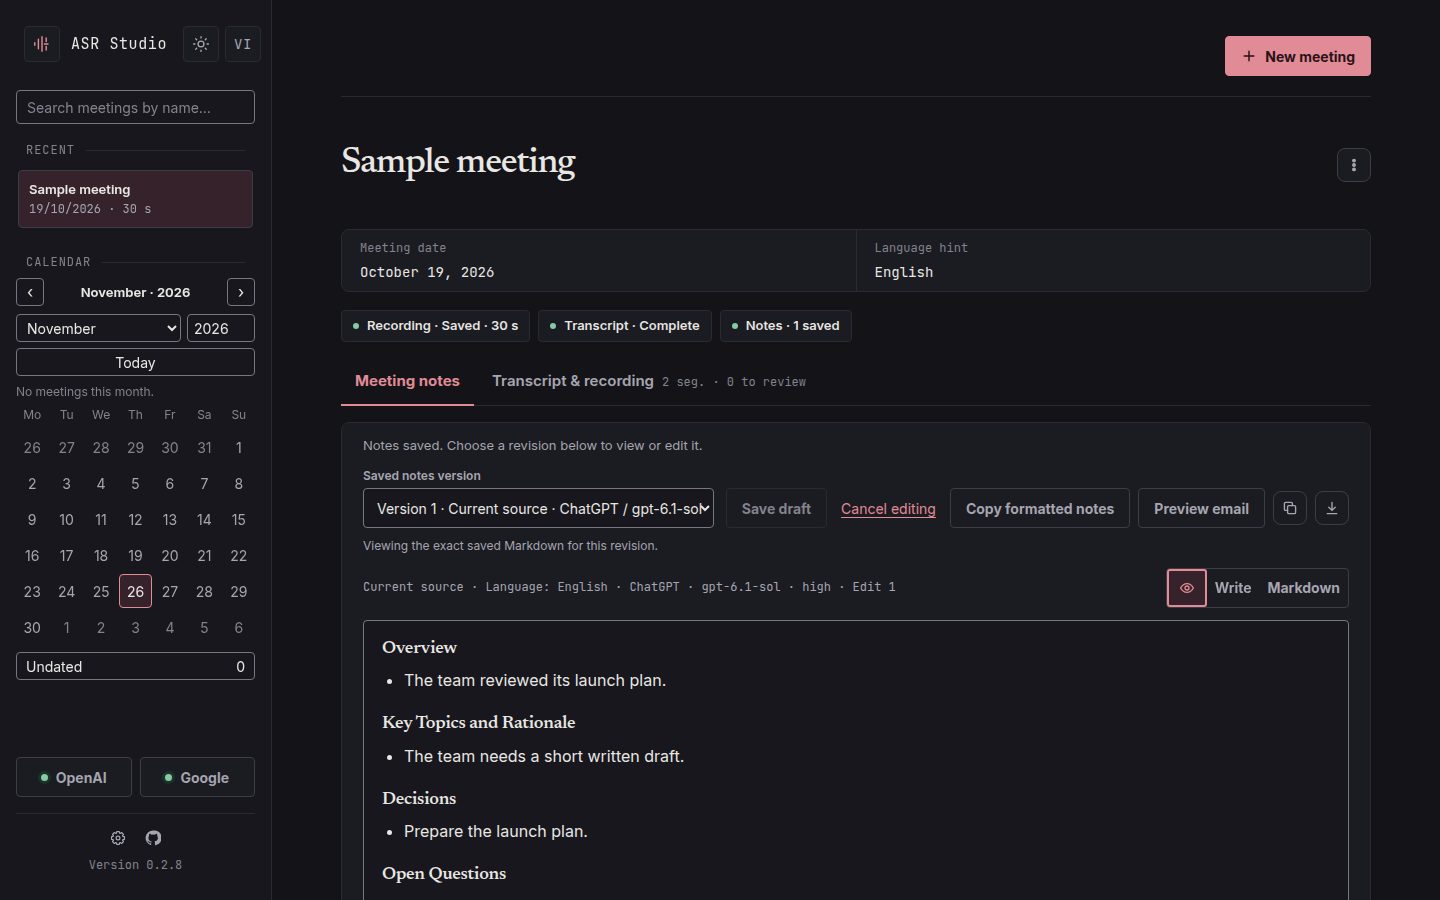
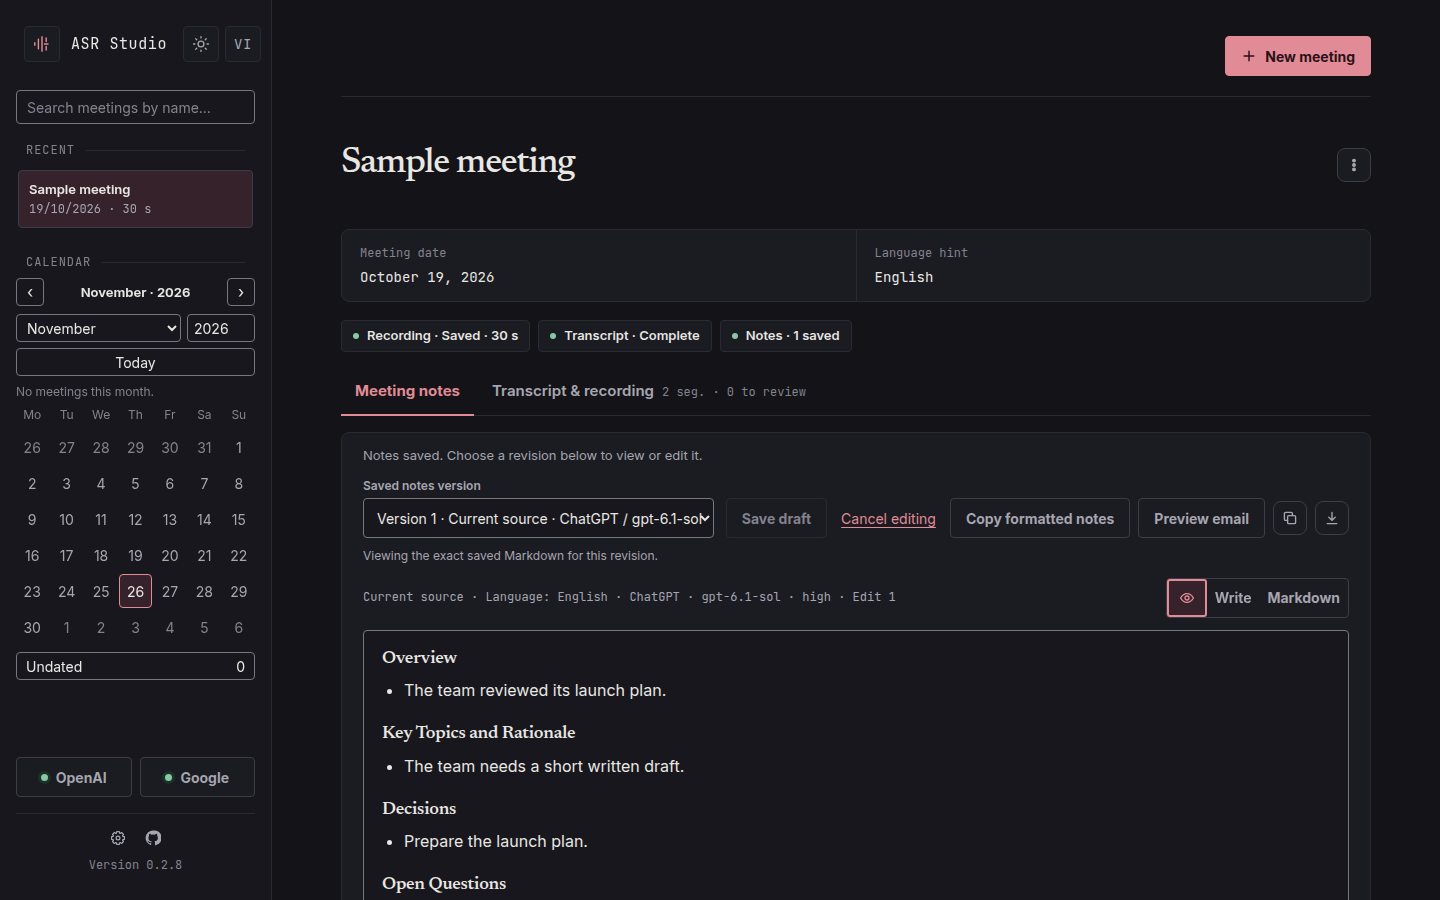
fix(notes): keep tab strip position stable

diff --git a/src/asr_studio/web/notes.css b/src/asr_studio/web/notes.css
@@ -1155,8 +1155,4 @@ a.notes-citation-chip:focus-visible {
     grid-template-columns: minmax(180px, 1fr) auto;
     gap: 8px 12px;
   }
-
-  .meeting-view:has(#meeting-panel-notes:not([hidden])) .metadata-item {
-    padding-block: 10px;
-  }
 }

diff --git a/tests/test_browser_notes_layout.py b/tests/test_browser_notes_layout.py
@@ -13,6 +13,43 @@ from asr_studio.tasks import fail_task, update_task_progress
 pytestmark = pytest.mark.browser
 
 
+def test_notes_and_transcript_tabs_keep_header_position_when_switching(live, signed_in):
+    _context, page = signed_in(viewport={"width": 1440, "height": 900})
+    meeting, _revision, _snapshot, _segments = _seed_saved_notes(live.settings.data_dir)
+    page.goto(f"{live.url}/meetings/{meeting}#notes")
+
+    tabs = page.locator("#meeting-tabs")
+    notes_tab = page.locator("#meeting-tab-notes")
+    transcript_tab = page.locator("#meeting-tab-transcript")
+    notes_panel = page.locator("#meeting-panel-notes")
+    transcript_panel = page.locator("#meeting-panel-transcript")
+
+    notes_tab.click()
+    expect(notes_tab).to_have_attribute("aria-selected", "true")
+    expect(notes_tab).to_be_focused()
+    expect(notes_panel).to_be_visible()
+    expect(page.locator("#notes-preview > *").first).to_be_visible()
+    expect(page.locator("#notes-status")).not_to_be_empty()
+    page.evaluate("document.fonts.ready")
+    notes_y = tabs.bounding_box()["y"]
+
+    transcript_tab.click()
+    expect(transcript_tab).to_have_attribute("aria-selected", "true")
+    expect(transcript_tab).to_be_focused()
+    expect(transcript_panel).to_be_visible()
+    expect(page.locator("#transcript-segments > li").first).to_be_visible()
+    expect(page.locator("#status-transcript")).to_contain_text("Transcript")
+    transcript_y = tabs.bounding_box()["y"]
+
+    notes_tab.click()
+    expect(notes_tab).to_have_attribute("aria-selected", "true")
+    expect(notes_tab).to_be_focused()
+    expect(notes_panel).to_be_visible()
+    expect(page.locator("#notes-preview > *").first).to_be_visible()
+    assert tabs.bounding_box()["y"] == pytest.approx(notes_y, abs=0.01)
+    assert transcript_y == pytest.approx(notes_y, abs=0.01)
+
+
 @pytest.mark.parametrize("scheme", ["light", "dark"])
 @pytest.mark.parametrize("width", [1440, 390])
 @pytest.mark.parametrize("language", ["vi", "en"])

diff --git a/docs/architecture-changes.md b/docs/architecture-changes.md
@@ -3048,7 +3048,7 @@ Tag: architecture, design. Target: [Frontend design §11.7](frontend-design.md#1
 
 ## #282 — Put saved Notes before completed processing and regeneration
 
-**Problem and measured cause.** The completed step list and generation group preceded the saved document, consuming the initial viewport. On a disposable persisted “Sample meeting” fixture at desktop 1440 × 900, the preview began at y=1050.86px before this correction and y=620.92px afterward. Source: [Chromium measurements](assets/frontend/issue-282/measurements.json), both themes and UI languages, same data for baseline `a112687` and candidate. The first content item ends at y=694.41px after the correction. The mobile records measure improvement without claiming that the document fits its initial viewport.
+**Problem and measured cause.** The completed step list and generation group preceded the saved document, consuming the initial viewport. On a disposable persisted “Sample meeting” fixture at desktop 1440 × 900, the preview began at y=1050.859375px before this correction and y=630.921875px afterward. Source: [Chromium measurements](assets/frontend/issue-282/measurements.json), both themes and UI languages, same data for baseline `a112687` and candidate. The first content item ends at y=704.40625px after the correction. The mobile records measure improvement without claiming that the document fits its initial viewport.
 
 **Design.** Keep the saved version/actions and provenance/mode controls directly before the document; place regeneration afterward. Successful steps/runtime are in a closed keyboard-operable native disclosure after the document. Active, error and other incomplete states stay expanded before it with cancel/retry accessible. Empty action feedback no longer reserves space. The duplicate visual panel heading remains available to assistive technology. The existing reducer, API, source identity, draft/conflict semantics and original Settings/GitHub footer are preserved.
 
